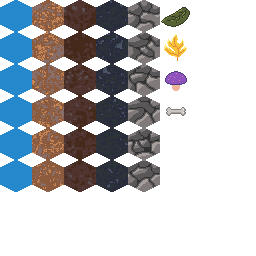
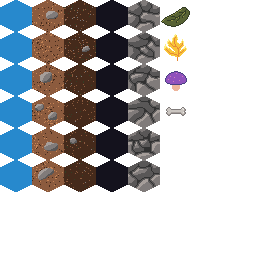
Fix tile variety picker.
Previously it was only picking a couple of the 6 varieties.

Changed region(s): [[0.125, 0.0, 0.3438, 0.75], [0.3125, 0.0, 0.5, 0.75]]

diff --git a/map.cc b/map.cc
@@ -91,6 +91,6 @@ Map::TileType Map::get_tile(const GridPoint& gp) const {
 
 int Map::get_sprite(const GridPoint& gp) const {
   const int t = static_cast<int>(get_tile(gp));
-  const int v = 3 * (1 + stb_perlin_noise3(gp.q(), gp.r(), seed_, 0, 0, 0));
-  return t + 8 * v;
+  const double v = stb_perlin_noise3(gp.s() * 37.0 / 11.0, gp.r() * 41.0 / 7.0, seed_, 0, 0, 0);
+  return t + 8 * ((int)(std::abs(1000 * v)) % 6);
 }
